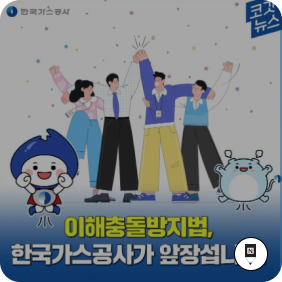
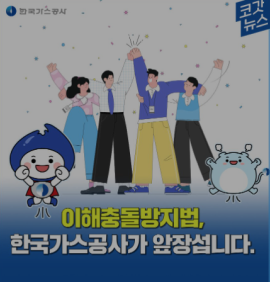
edit 10:37

diff --git a/index.html b/index.html
@@ -208,19 +208,37 @@
                             <div class="swiper s1-swiper">
                                 <div class="swiper-wrapper">
                                     <div class="swiper-slide">
-                                        <div class="img-box"><img src="img/home/s1-slide-img.png" alt=""></div>
+                                        <div class="img-box">
+                                            <img src="img/home/s1-slide-img01.jpg" alt="" style="object-position: center 35%;">
 
-                                        <div class="text-box">
-                                            <span>Discover</span>
-                                            <p>코가스 글로벌우주항공</p>
+                                            <div class="text-box">
+                                                <span>Discover</span>
+                                                <p>코가스 글로벌우주항공</p>
+                                            </div>
                                         </div>
                                     </div>
-                                    <div class="swiper-slide">
-                                        <div class="img-box"><img src="img/home/s1-slide-img.png" alt=""></div>
 
-                                        <div class="text-box">
-                                            <span>Discover</span>
-                                            <p>코가스 글로벌우주항공</p>
+                                    <div class="swiper-slide slide-flex">
+                                        <div class="part01">
+                                            <div class="img-box">
+                                                <img src="img/home/s1-slide-img02.jpg" alt="" style="object-position: center bottom; transform: scale(1.36); transform-origin: 45% bottom;">
+
+                                                <div class="text-box">
+                                                    <span>Discover</span>
+                                                    <p>코가스 글로벌우주항공</p>
+                                                </div>
+                                            </div>
+                                        </div>
+
+                                        <div class="part02">
+                                            <div class="img-box">
+                                                <img src="img/home/s1-slide-img03.jpg" alt="" style="object-position: 88% center;">
+
+                                                <div class="text-box">
+                                                    <span>Discover</span>
+                                                    <p>코가스 글로벌우주항공</p>
+                                                </div>
+                                            </div>
                                         </div>
                                     </div>
                                 </div>
@@ -607,7 +625,9 @@
 
                         <ul class="sns-thumb-list">
                             <li>
-                                <div class="img-box"><img src="img/home/sns-thumb01.png" alt=""></div>
+                                <div class="img-box">
+                                    <img src="img/home/sns-thumb01.jpg" alt="" style="object-position: left center; transform: scale(1.05); transform-origin: left bottom;">
+                                </div>
 
                                 <a href="#" class="sns-icon"><img src="img/home/youtube.png" alt=""></a>
                             </li>

diff --git a/css/main.scss b/css/main.scss
@@ -401,6 +401,24 @@ div.inner {
                 }
             }
 
+            .slide-flex {
+                display: flex;
+                width: 100%;
+                align-items: center;
+                justify-content: space-between;
+                gap: 27px;
+
+                .part01 {
+                    width: 100%;
+                    max-width: 789px;
+                    height: 100%;
+                }
+                .part02 {
+                    flex: 1;
+                    height: 100%;
+                }
+            }
+
             .slide-buttons {
                 position: absolute;
                 left: 52px;

diff --git a/css/main.css b/css/main.css
@@ -1022,6 +1022,22 @@ div.inner {
   font-size: 30px;
   margin-top: 18px;
 }
+#home .section01 .slide-container .slide-flex {
+  display: flex;
+  width: 100%;
+  align-items: center;
+  justify-content: space-between;
+  gap: 27px;
+}
+#home .section01 .slide-container .slide-flex .part01 {
+  width: 100%;
+  max-width: 789px;
+  height: 100%;
+}
+#home .section01 .slide-container .slide-flex .part02 {
+  flex: 1;
+  height: 100%;
+}
 #home .section01 .slide-container .slide-buttons {
   position: absolute;
   left: 52px;

diff --git a/css/swiper.css b/css/swiper.css
@@ -4,14 +4,12 @@
     height: 506px;
 }
 
-#home .s1-swiper .swiper-slide {
-    position: relative;
-}
 #home .s1-swiper .swiper-slide .img-box {
     width: 100%;
     height: 100%;
     border-radius: 20px;
     overflow: hidden;
+    position: relative;
 }
 
 #home .s1-swiper .swiper-slide .img-box img {
